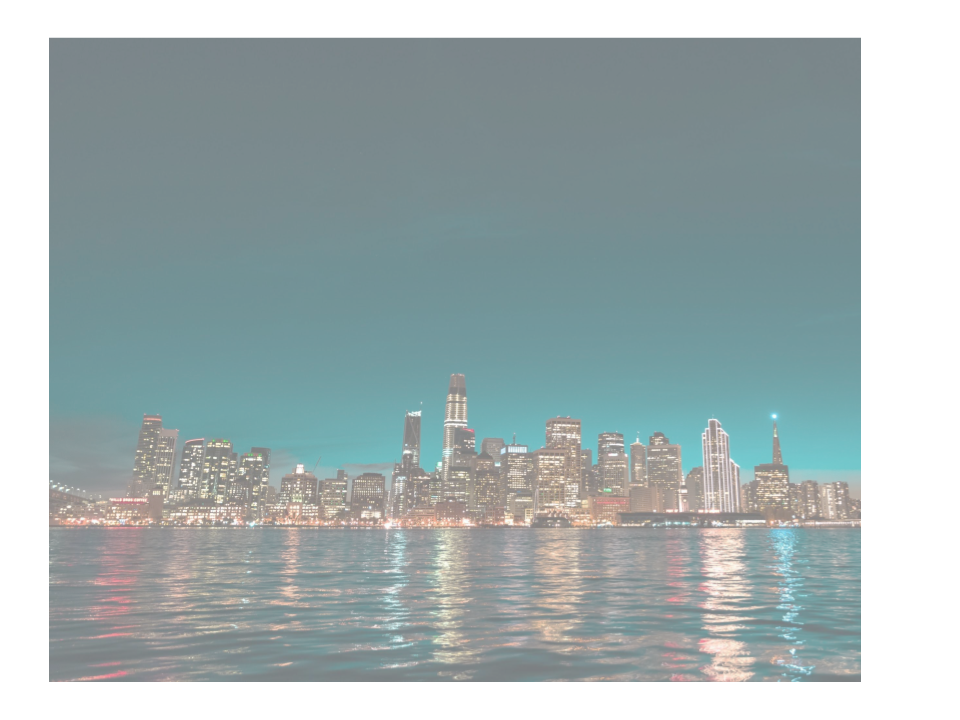
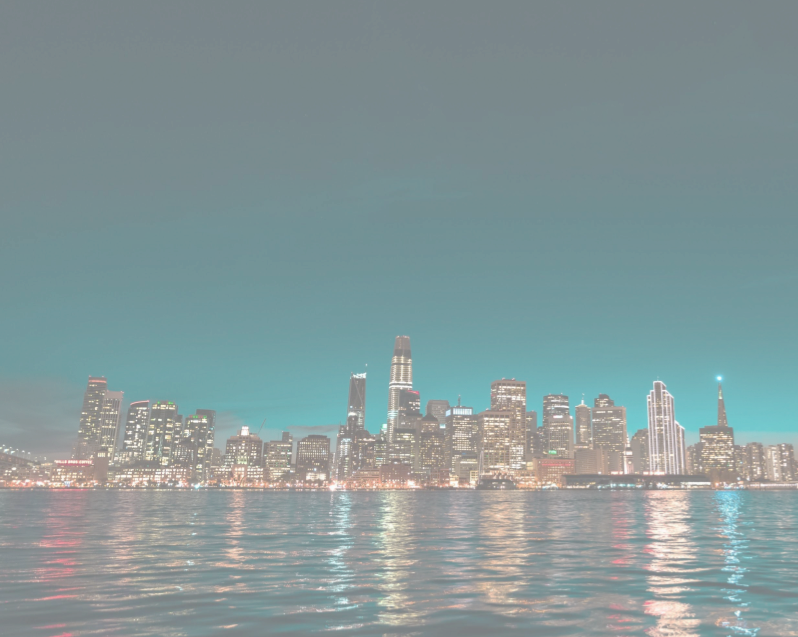
editting background image

diff --git a/cons_landing.css b/cons_landing.css
@@ -15,7 +15,7 @@ img{
 h2{
   position: relative;
   color: grey;
-  padding-top: 100;
+  padding-top: 10;
 
 }
 
@@ -24,4 +24,25 @@ h2{
   color: white;
   padding-top:100
 
+}
+
+a:link {
+  text-decoration: none;
+  color: white;
+}
+
+a:visited{
+  text-decoration: none;
+  color: white;
+}
+
+a:hover{
+  color: white;
+  text-decoration: none;
+}
+
+a:active{
+  color: white;
+  text-decoration: none;
+}
 }

diff --git a/homepage.css b/homepage.css
@@ -1,6 +1,11 @@
 body{
   background-image: url(homepage.png);
   background-repeat: no-repeat;
+  background-position: center;
+  background-size: cover;
+  margin: 0px 30px;
+
+
 }
   h1{
   text-align:center;
@@ -12,7 +17,7 @@ body{
 .topbar{
   background-color: cornflowerblue;
   color: white;
-  margin-top: 20px;
+
 
 }
 
